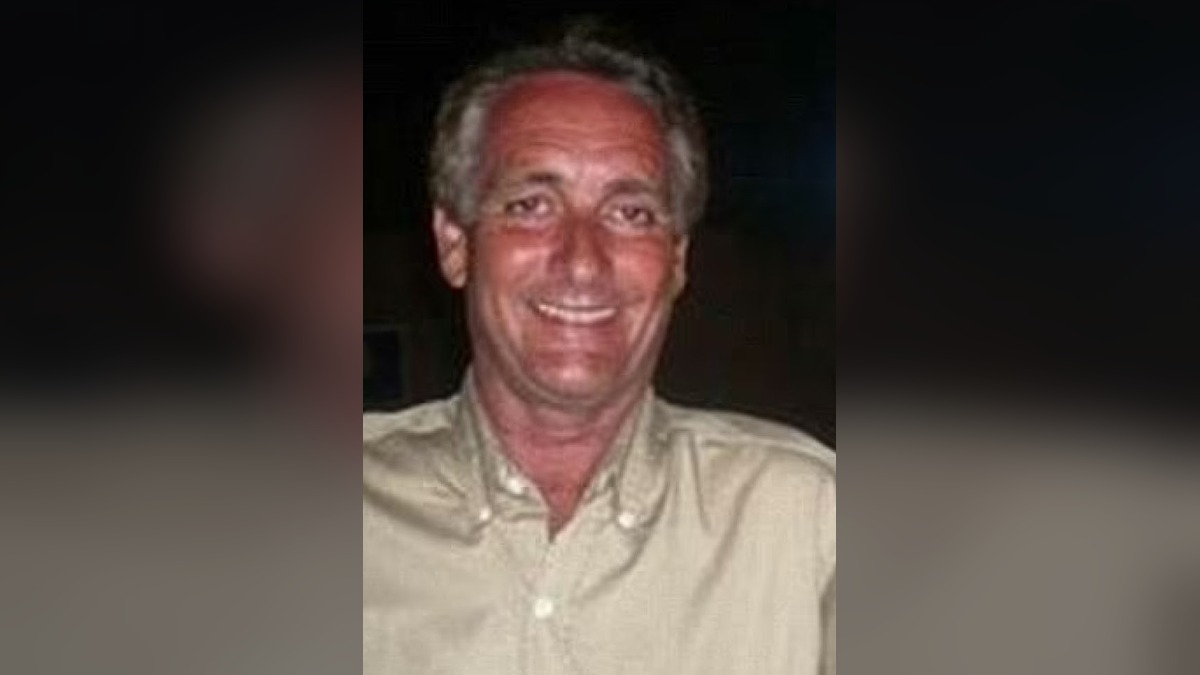
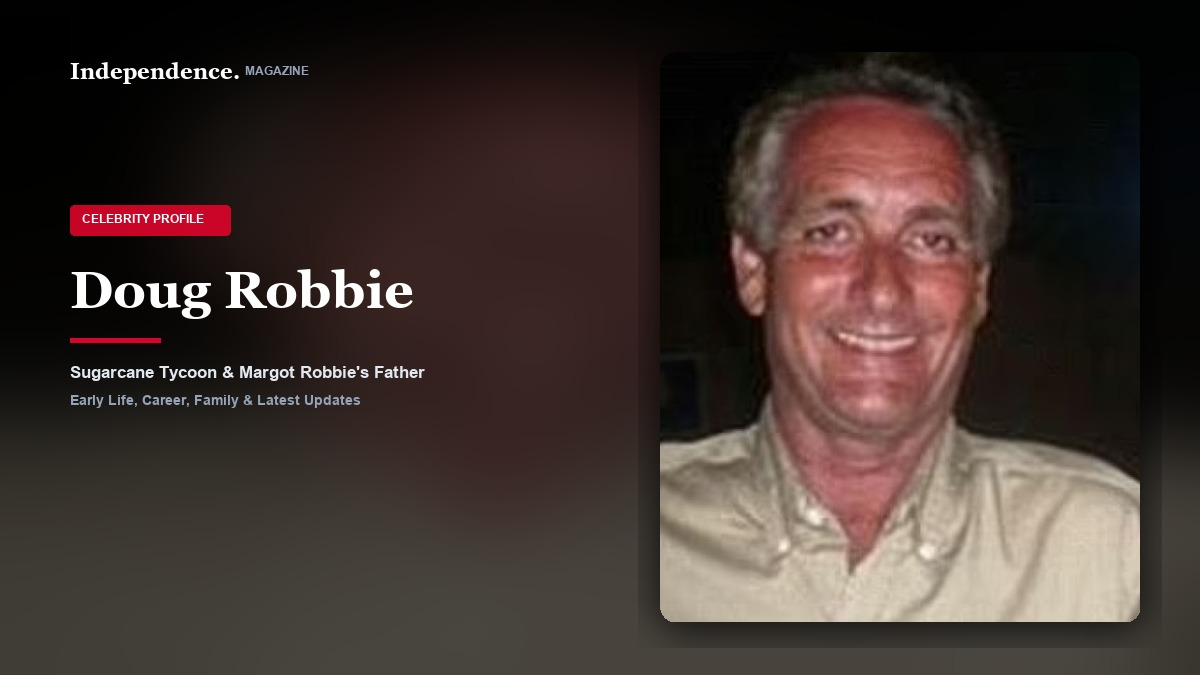
style: update batch 3 featured images to match signature Independence Magazine card template

diff --git a/scripts/generate_batch3_spark_covers.py b/scripts/generate_batch3_spark_covers.py
@@ -1,0 +1,143 @@
+import os
+import urllib.request
+from io import BytesIO
+from PIL import Image, ImageDraw, ImageFont, ImageFilter, ImageEnhance
+
+SCRIPT_DIR = os.path.dirname(os.path.abspath(__file__))
+BASE_DIR = os.path.abspath(os.path.join(SCRIPT_DIR, ".."))
+ASSETS_DIR = os.path.join(BASE_DIR, "assets", "covers")
+
+PROFILES = [
+    {
+        "id": "malaak-compton",
+        "url": "https://trendifymagazine.com/wp-content/uploads/2026/08/Untitled-1-94.jpg",
+        "crop_box": (50, 15, 465, 465),
+        "name": "Malaak Compton",
+        "category": "Biography",
+        "subtitle": "Philanthropist & Chris Rock's Ex-Wife",
+        "cover_filename": "malaak-compton-rock-cover.jpg"
+    },
+    {
+        "id": "doug-robbie",
+        "url": "https://trendifymagazine.com/wp-content/uploads/2026/07/Artboard-1-74.jpg",
+        "crop_box": (980, 20, 1660, 990),
+        "name": "Doug Robbie",
+        "category": "Celebrity",
+        "subtitle": "Sugarcane Tycoon & Margot Robbie's Father",
+        "cover_filename": "doug-robbie-cover.jpg"
+    },
+    {
+        "id": "logan-romero-plant",
+        "url": "https://trendifymagazine.com/wp-content/uploads/2026/07/Untitled-1-Recovered-Recovered-4.jpg",
+        "crop_box": (10, 10, 445, 470),
+        "name": "Logan Romero Plant",
+        "category": "Celebrity",
+        "subtitle": "Beavertown Founder & Robert Plant's Son",
+        "cover_filename": "logan-romero-plant-cover.jpg"
+    }
+]
+
+def download_image(url):
+    headers = {'User-Agent': 'Mozilla/5.0 (Windows NT 10.0; Win64; x64)'}
+    req = urllib.request.Request(url, headers=headers)
+    with urllib.request.urlopen(req, timeout=15) as resp:
+        return Image.open(BytesIO(resp.read())).convert('RGB')
+
+def generate_spark_cover(item):
+    width, height = 1200, 675
+    print(f"Downloading source image for {item['name']}...")
+    raw_full = download_image(item["url"])
+    cropped_subject = raw_full.crop(item["crop_box"])
+
+    # 1. Background: Blurred & Darkened version of the subject photo
+    bg = cropped_subject.resize((width, height), Image.Resampling.LANCZOS)
+    bg = bg.filter(ImageFilter.GaussianBlur(radius=42))
+    enhancer = ImageEnhance.Brightness(bg)
+    bg = enhancer.enhance(0.35)
+
+    # 2. Foreground Portrait Box (480 x 570)
+    pw, ph = 480, 570
+    sw, sh = cropped_subject.size
+    target_ratio = pw / ph
+    cur_ratio = sw / sh
+
+    if cur_ratio > target_ratio:
+        new_w = int(sh * target_ratio)
+        left = (sw - new_w) // 2
+        p_crop = cropped_subject.crop((left, 0, left + new_w, sh))
+    else:
+        new_h = int(sw / target_ratio)
+        top = (sh - new_h) // 4
+        p_crop = cropped_subject.crop((0, max(0, top), sw, min(sh, top + new_h)))
+
+    portrait = p_crop.resize((pw, ph), Image.Resampling.LANCZOS)
+
+    # Rounded corners mask
+    mask = Image.new('L', (pw, ph), 0)
+    mask_draw = ImageDraw.Draw(mask)
+    mask_draw.rounded_rectangle([0, 0, pw, ph], radius=16, fill=255)
+
+    px, py = width - pw - 60, (height - ph) // 2
+
+    # Drop shadow
+    shadow = Image.new('RGBA', (pw + 44, ph + 44), (0, 0, 0, 0))
+    s_draw = ImageDraw.Draw(shadow)
+    s_draw.rounded_rectangle([18, 18, pw + 26, ph + 26], radius=24, fill=(0, 0, 0, 195))
+    shadow = shadow.filter(ImageFilter.GaussianBlur(radius=18))
+    bg.paste(shadow, (px - 22, py - 18), shadow)
+
+    # Paste sharp portrait
+    bg.paste(portrait, (px, py), mask)
+
+    # 3. Editorial Typography (Left side)
+    draw = ImageDraw.Draw(bg, 'RGBA')
+    try:
+        font_brand = ImageFont.truetype(r"C:\Windows\Fonts\georgiab.ttf", 22)
+        font_tag = ImageFont.truetype(r"C:\Windows\Fonts\arialbd.ttf", 12)
+        font_name = ImageFont.truetype(r"C:\Windows\Fonts\georgiab.ttf", 52)
+        font_sub = ImageFont.truetype(r"C:\Windows\Fonts\arialbd.ttf", 17)
+        font_sub2 = ImageFont.truetype(r"C:\Windows\Fonts\arialbd.ttf", 14)
+    except Exception:
+        font_brand = ImageFont.load_default()
+        font_tag = ImageFont.load_default()
+        font_name = ImageFont.load_default()
+        font_sub = ImageFont.load_default()
+        font_sub2 = ImageFont.load_default()
+
+    # Top brand badge: Independence. MAGAZINE
+    draw.text((70, 58), "Independence.", fill=(255, 255, 255), font=font_brand)
+    draw.text((245, 64), "MAGAZINE", fill=(148, 163, 184), font=font_tag)
+
+    # Category Pill
+    tag_y = 205
+    tag_text = f"{item['category'].upper()} PROFILE"
+    draw.rounded_rectangle([70, tag_y, 230, tag_y + 30], radius=4, fill=(217, 4, 41, 235))
+    draw.text((82, tag_y + 7), tag_text, fill=(255, 255, 255), font=font_tag)
+
+    # Person Name
+    name_lines = item["name"].split(" ")
+    if len(name_lines) <= 2:
+        draw.text((70, 260), item["name"], fill=(255, 255, 255), font=font_name)
+        curr_y = 338
+    else:
+        line1 = " ".join(name_lines[:2])
+        line2 = " ".join(name_lines[2:])
+        draw.text((70, 250), line1, fill=(255, 255, 255), font=font_name)
+        draw.text((70, 315), line2, fill=(255, 255, 255), font=font_name)
+        curr_y = 395
+
+    # Crimson underline accent
+    draw.rectangle([70, curr_y, 160, curr_y + 4], fill=(217, 4, 41, 255))
+
+    # Subtitles
+    draw.text((70, curr_y + 24), item["subtitle"], fill=(226, 232, 240), font=font_sub)
+    draw.text((70, curr_y + 54), "Early Life, Career, Family & Latest Updates", fill=(148, 163, 184), font=font_sub2)
+
+    out_p = os.path.join(ASSETS_DIR, item["cover_filename"])
+    bg.save(out_p, "JPEG", quality=92)
+    print(f"Generated Spark cover: {out_p}")
+
+if __name__ == "__main__":
+    for p in PROFILES:
+        generate_spark_cover(p)
+    print("All 3 batch covers generated in signature Independence Magazine format!")
